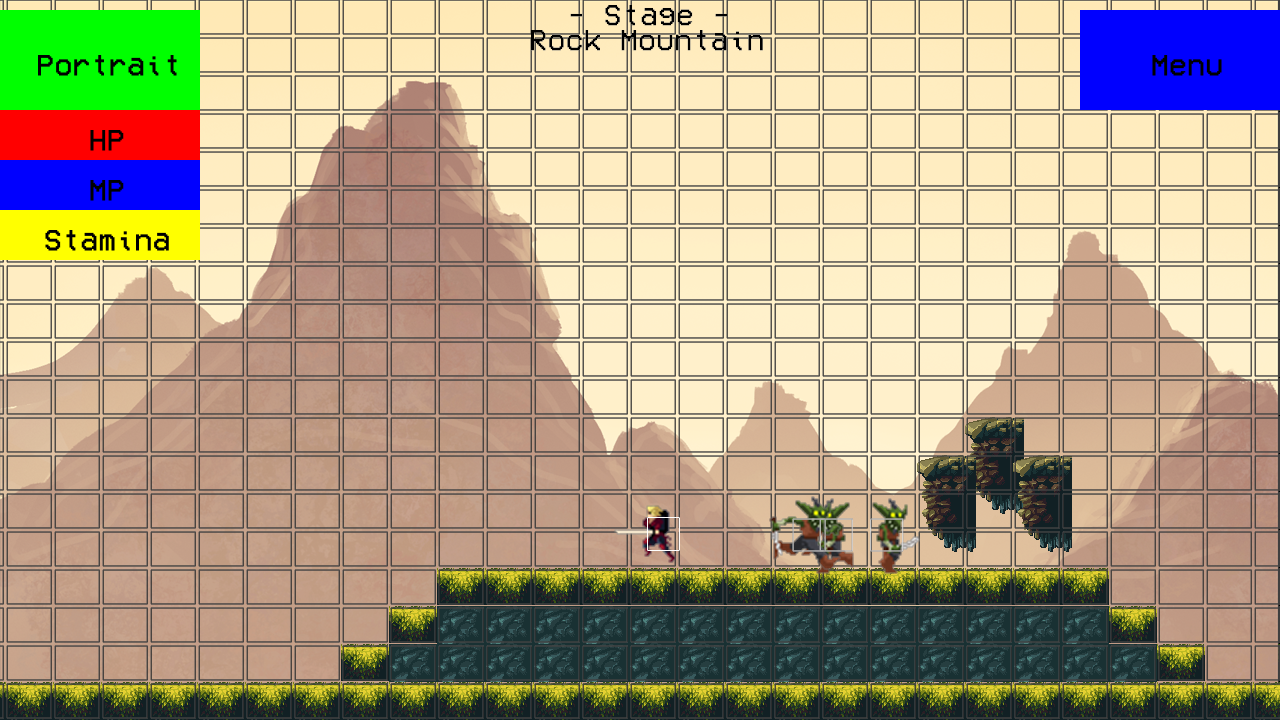
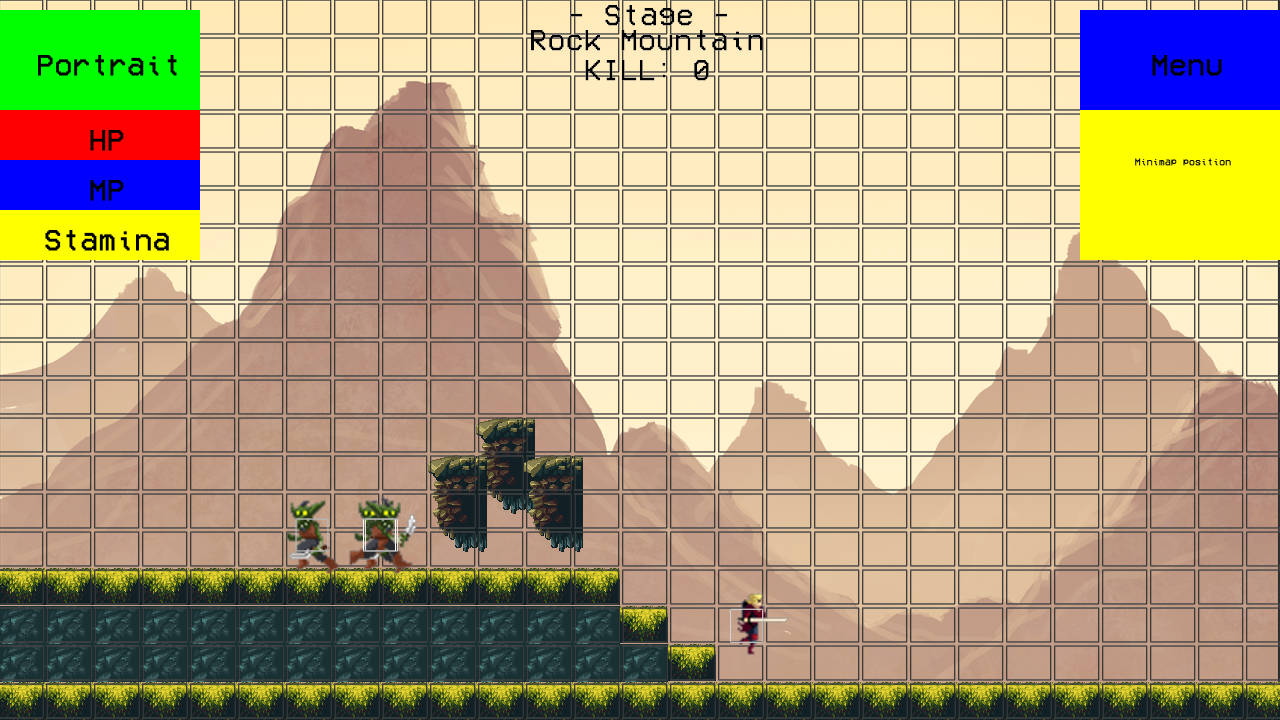
#desktop
미니맵 위치 추가
마우스 이동 모션 추가

diff --git a/OpenGL-portfolio/game/stage.cpp b/OpenGL-portfolio/game/stage.cpp
@@ -241,36 +241,9 @@ void drawStage(float dt)
 
 	
 
-	if (keyDown & keyboard_num1)
-	{
-	
-		printf("num1\n");
-		be = Behave_meleeAttack;
-		hero->Skill1();	
-
-		zoomCamera(hero->getPosition() + offMt, 1.5);
-		shakeCamera(30);
-
-	}
-
-	else if (keyDown & keyboard_space)
-		be = Behave_jumpAndFall;
-	else if (keyDown & keyboard_down)
-		be = Behave_idle;
-	else if (keyDown & keyboard_up)
-		be = Behave_jumpAndFall;
-	else
-		be = (v == iPointZero ? Behave_idle : Behave_move);
-	int dir = hero->direction;
-	if (v.x < 0) dir = 0;
-	else if (v.x > 0) dir = 1;
-
-
-	if (hero->behave != Behave_meleeAttack && hero->behave != Behave_jumpAndFall)
-		hero->setBehave(be, dir);
 
 	
-	if (mouseMove)
+	if (mouseMove) // 마우스 입력이 있을때
 	{
 		if( hero->moveForMouse(dt) )
 			mouseMove = false;
@@ -282,9 +255,38 @@ void drawStage(float dt)
 			hero->pathNum = hero->pathIndex;
 		}
 	}
-	else
+	else // 키보드 입력일때
 	{
+
+		if (keyDown & keyboard_num1)
+		{
+
+			printf("num1\n");
+			be = Behave_meleeAttack;
+			hero->Skill1();
+
+			zoomCamera(hero->getPosition() + offMt, 1.5);
+			shakeCamera(30);
+
+		}
+
+		else if (keyDown & keyboard_space)
+			be = Behave_jumpAndFall;
+		else if (keyDown & keyboard_down)
+			be = Behave_idle;
+		else if (keyDown & keyboard_up)
+			be = Behave_jumpAndFall;
+		else
+			be = (v == iPointZero ? Behave_idle : Behave_move);
+		int dir = hero->direction;
+		if (v.x < 0) dir = 0;
+		else if (v.x > 0) dir = 1;
+
+
+		if (hero->behave != Behave_meleeAttack && hero->behave != Behave_jumpAndFall)
+			hero->setBehave(be, dir);
 		float minX, maxX, minY, maxY;
+		
 		if (v != iPointZero)
 		{
 			v /= iPointLength(v);
@@ -453,9 +455,9 @@ void keyStage(iKeyState stat, iPoint point)
 		printf("sx : %d sy : %d  ex : %d ey : %d\n", sx, sy, ex, ey);
 		printf("begin :%d dest : %d\n", sy * MapTileNumX+ sx, ey * MapTileNumX + ex);
 		
-		//return;
-		//if (sy != ey)
-			//return;
+		
+		if (sy != ey) // 횡스크롤 게임이므로 최단경로 고려할떄 같은 가로위치일떄만 고려함
+			return;
 
 		sp->dijkstra(sy * MapTileNumX + sx, ey * MapTileNumX + ex, hero->path, hero->pathNum);
 		
@@ -505,17 +507,36 @@ void createPopPlayerUI()
 		g->fillRect(0, 0, devSize.width, devSize.height);
 		g->drawString(devSize.width / 2, 10, HCENTER | VCENTER, "- Stage -");
 		g->drawString(devSize.width / 2, 35, HCENTER|VCENTER, mapTitle[0]);
-
+		g->drawString(devSize.width / 2, 65, HCENTER | VCENTER, "KILL: %d", hero->kill);
 		Poptex = g->getTexture();
 		img->addObject(Poptex);
 		freeImage(Poptex);
 
-		//PopPlayerUIImgs[0] = img;
+	
+		
 		pop->addObject(img);
 
 	}
+
+	{ // 미니맵
+		setRGBA(1, 1, 0, 1);
+		setStringSize(10);
+		iSize mapsize = iSizeMake(200, 200);
+		g->init(mapsize);
+		g->fillRect(0, 0, mapsize.width, mapsize.height);
+		g->drawString(mapsize.width / 2, mapsize.height / 2, HCENTER | VCENTER, "Minimap position");
+		Texture* minimapTex = g->getTexture();
+		iImage* minimap = new iImage();
+		minimap->addObject(minimapTex);
+		minimap->position = iPointMake(devSize.width - mapsize.width, 60);
+		pop->addObject(minimap);
+
+	}
+
+	
 	// Stage Menu
 	{
+		setStringSize(30);
 		iImage* menuBtn = new iImage();
 		Texture* menuBtnTex;
 		iSize menuSize = iSizeMake(200, 100);
@@ -606,10 +627,7 @@ void createPopPlayerUI()
 		pop->addObject(playerStamina);
 
 
-
-
-
-
+		
 
 	}
 

diff --git a/OpenGL-portfolio/GameObject/PlayerCharacter/Player.cpp b/OpenGL-portfolio/GameObject/PlayerCharacter/Player.cpp
@@ -192,5 +192,60 @@ void Player::Skill3()
 {
 }
 
+//Override
+bool Player::moveForMouse(float dt)
+{
+	
+	if (position.x < targetPosition.x)
+		setBehave(Behave_move, 1);
+
+	else
+		setBehave(Behave_move, 0);
+	
+
+	
+	if (position != targetPosition)
+	{
+		if (position.x < targetPosition.x)
+		{
+			position.x += movement * dt;
+			if (position.x > targetPosition.x)
+				position.x = targetPosition.x;
 
 
+		}
+		else if (position.x > targetPosition.x)
+		{
+			position.x -= movement * dt;
+			if (position.x < targetPosition.x)
+				position.x = targetPosition.x;
+		}
+
+		if (position.y < targetPosition.y)
+		{
+			position.y += movement * dt;
+			if (position.y > targetPosition.y)
+				position.y = targetPosition.y;
+		}
+		else if (position.y > targetPosition.y)
+		{
+			position.y -= movement * dt;
+			if (position.y < targetPosition.y)
+				position.y = targetPosition.y;
+		}
+	}
+	else
+	{
+		if (pathIndex < pathNum)
+		{
+			int index = path[pathIndex];
+			targetPosition.x = MapTileWidth * (index % MapTileNumX) + MapTileWidth / 2;
+			targetPosition.y = MapTileHeight * (index / MapTileNumX) + MapTileHeight / 2;
+			pathIndex++;
+		}
+		else
+			return true;
+	}
+	return false;
+
+}

diff --git a/OpenGL-portfolio/GameObject/PlayerCharacter/Player.h b/OpenGL-portfolio/GameObject/PlayerCharacter/Player.h
@@ -23,12 +23,18 @@ public:
 	static void cbSkill(iImage* skillimg);
 	void setBehave(Behave be, int direction);
 	void paint(float dt, iPoint offset);
+	
+	
 	iImage** imgs;
 	iImage* img;
 
 	Behave behave;
 	int direction;
+	int kill = 0; // 몬스터 처치수
 
+	//override func
+	bool moveForMouse(float dt);
+	
 public:
 	iImage* imgSkill; // 근접 스킬
 	iImage* imgRange; // 원거리 스킬
